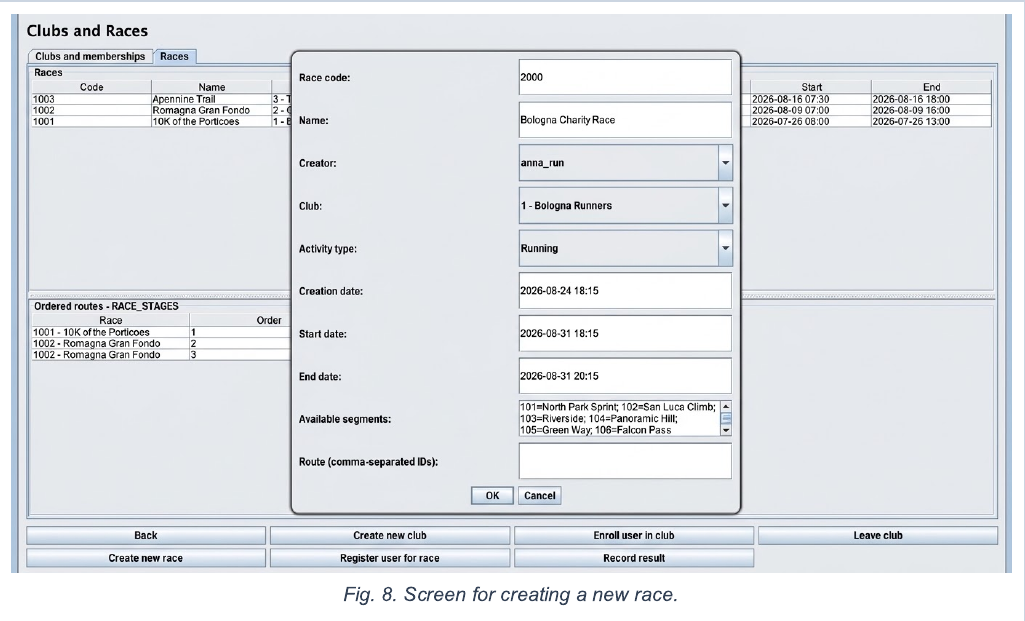
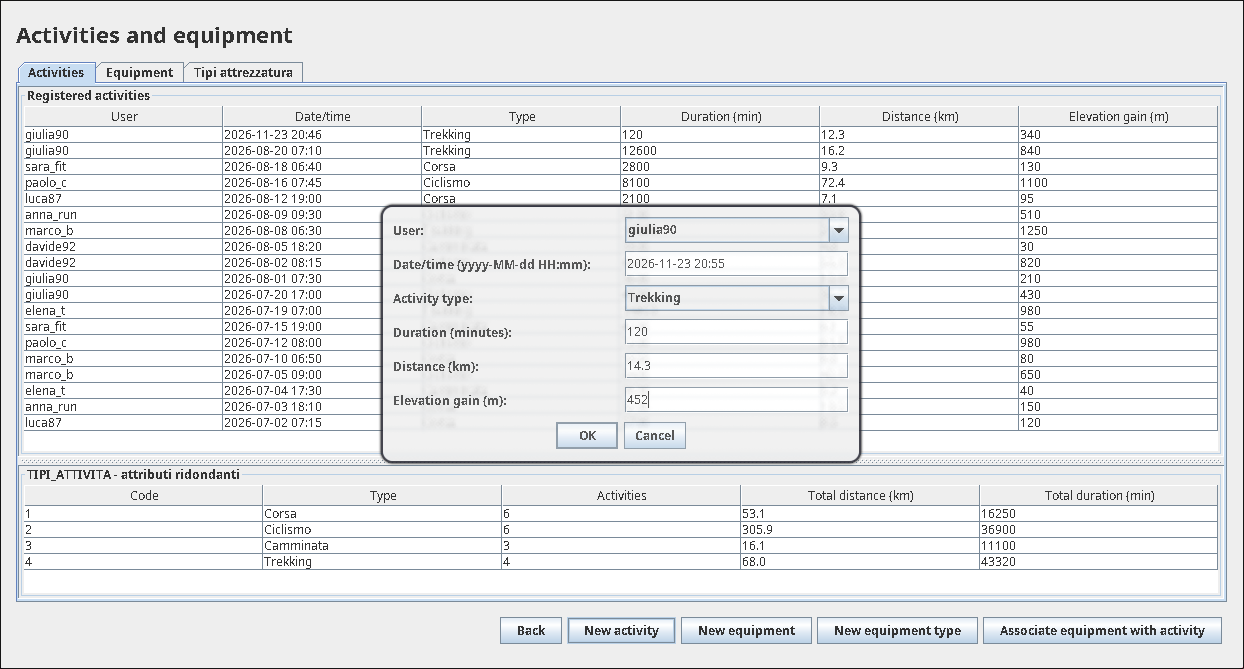
Update docs/images/app-screenshot.png

diff --git a/README.md b/README.md
@@ -2,35 +2,35 @@
 
 A relational database design and Java desktop application inspired by fitness tracking platforms such as Strava, allowing athletes and clubs to record, manage, and analyze workouts, GPS segments, equipment usage, and competitions.
 
-Developed as the final project for the **Databases** (*Basi di Dati*) course in the B.Sc. in Computer Science and Engineering at the **University of Bologna** (Cesena Campus)[cite: 2, 4].
+Developed as the final project for the **Databases** (*Basi di Dati*) course in the B.Sc. in Computer Science and Engineering at the **University of Bologna** (Cesena Campus).
 
 ---
 
 ## Project Overview & Database Design
 
-The project covers the complete database engineering lifecycle—from requirements analysis and conceptual modeling to logical restructuring, normalization, and physical implementation[cite: 2, 4]:
+The project covers the complete database engineering lifecycle—from requirements analysis and conceptual modeling to logical restructuring, normalization, and physical implementation:
 
 * **Conceptual & Logical Modeling:** Designed an Entity-Relationship (E-R) schema covering **14 core domain entities** (Users, Activities/Workouts, GPS Segments, Segment Crossings, Gear/Equipment, Clubs, Competitions/Races, Registrations, Participations, and Performance Reports)[cite: 1].
-* **Data Integrity & Optimization:** Enforced primary/foreign key constraints, domain checks, and normalized relational tables to eliminate data redundancy while supporting efficient analytical queries[cite: 4].
-* **Analytical & Operational Queries:** Implemented SQL queries to track athlete progress, segment leaderboards, equipment wear, club memberships, and race rankings[cite: 1, 4].
+* **Data Integrity & Optimization:** Enforced primary/foreign key constraints, domain checks, and normalized relational tables to eliminate data redundancy while supporting efficient analytical queries.
+* **Analytical & Operational Queries:** Implemented SQL queries to track athlete progress, segment leaderboards, equipment wear, club memberships, and race rankings.
 
 ---
 
 ## Software Architecture
 
-The companion Java application is structured following the **MVC (Model-View-Controller)** architectural pattern decoupled from persistence via a dedicated **DAO (Data Access Object)** layer over **JDBC**[cite: 1]:
+The companion Java application is structured following the **MVC (Model-View-Controller)** architectural pattern decoupled from persistence via a dedicated **DAO (Data Access Object)** layer over **JDBC**:
 
-* **Model & DAO Layer (`DBModel`, `DAOUtils`, `DAOException`, `Queries`):** Encapsulates SQL statements, connection lifecycle management, and relational-to-object mapping[cite: 1].
-* **Controller Layer:** Coordinates user interactions, input validation, and data flow between the GUI and the persistence layer[cite: 1].
-* **View Layer:** Desktop graphical user interface for browsing workouts, uploading activities, and inspecting reports[cite: 1].
+* **Model & DAO Layer (`DBModel`, `DAOUtils`, `DAOException`, `Queries`):** Encapsulates SQL statements, connection lifecycle management, and relational-to-object mapping.
+* **Controller Layer:** Coordinates user interactions, input validation, and data flow between the GUI and the persistence layer.
+* **View Layer:** Desktop graphical user interface for browsing workouts, uploading activities, and inspecting reports.
 
 ---
 
 ## Tech Stack
 
 * **DBMS:** MariaDB / MySQL
-* **Language:** Java (JDK 17+) & SQL[cite: 2, 7]
-* **Data Access:** JDBC[cite: 1]
+* **Language:** Java (JDK 17+) & SQL
+* **Data Access:** JDBC
 * **Build Tool:** Gradle (Kotlin DSL)
 
 ---
@@ -57,7 +57,7 @@ The companion Java application is structured following the **MVC (Model-View-Con
 
 1. **Clone the repository:**
    ```bash
-   git clone [https://github.com/jjacomo/workout-tracking-database.git](https://github.com/jjacomo/workout-tracking-database.git)
+   git clone https://github.com/jjacomo/workout-tracking-database.git
    cd workout-tracking-database
    ```
 
